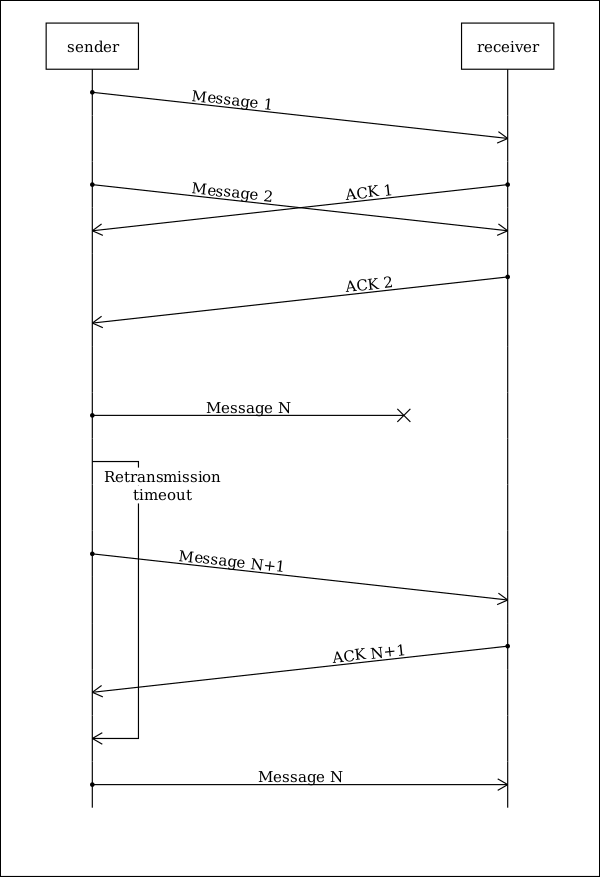
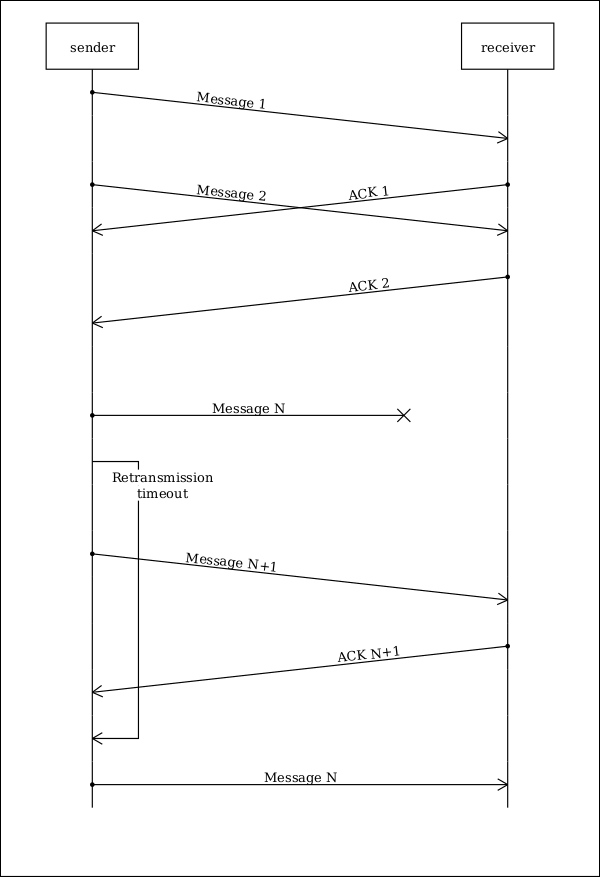
global font description
Example:

[init]
font gentium 15

diff --git a/meseq.py b/meseq.py
@@ -25,6 +25,8 @@ ARROW_HEAD_RIGHT = 2
 ARROW_HEAD_HUGE  = 3
 
 Verbose = 0
+GlobalFont = 'Georgia 10'
+
 def setVerbosity(n):
     global Verbose
     Verbose = n
@@ -45,6 +47,10 @@ def debug(*args):
 
 def error(*args):
     log('Error:', *args)
+
+def setGlobalFont(fontDesc):
+    global GlobalFont
+    GlobalFont = fontDesc
 
 Colors = { 'white'   : 'fff',
            'grey'    : '666',
@@ -257,8 +263,8 @@ class SequenceDiagram(object):
         pangocairoCtx = pangocairo.CairoContext(self.cr)
         pangocairoCtx.set_antialias(cairo.ANTIALIAS_SUBPIXEL)
         layout = pangocairoCtx.create_layout()
-        fontname = "Georgia"
-        font = pango.FontDescription(fontname + " " + str(STEP/4))
+        fontname = GlobalFont
+        font = pango.FontDescription(fontname) # + " " + str(STEP/4))
         layout.set_font_description(font)
         layout.set_text(text)
         layout.set_alignment(pango.ALIGN_CENTER)
@@ -734,6 +740,16 @@ def lexerParse(line):
     
     return tokens
 
+def tokenParseFont(tokens):
+    """The tokens a concatenated.
+    The result will be passed to pango.FontDescription.
+    Examples of expected result:
+        sans bold 12
+        serif,monospace bold italic condensed 16
+        normal 10
+    """
+    return ' '.join(tokens)
+
 def tokenParseActor(tokens):
     """Expected tokens:
     actorid [options ...]
@@ -918,6 +934,9 @@ def mscParse(data):
         elif line[0] == 'actor':
             actor = tokenParseActor(line[1:])
             initialActors.append(actor)
+        elif line[0] == 'font':
+            fontDescription = tokenParseFont(line[1:])
+            setGlobalFont(fontDescription)
         else:
             die('Invalid declaration in init: %s' % line)
 
